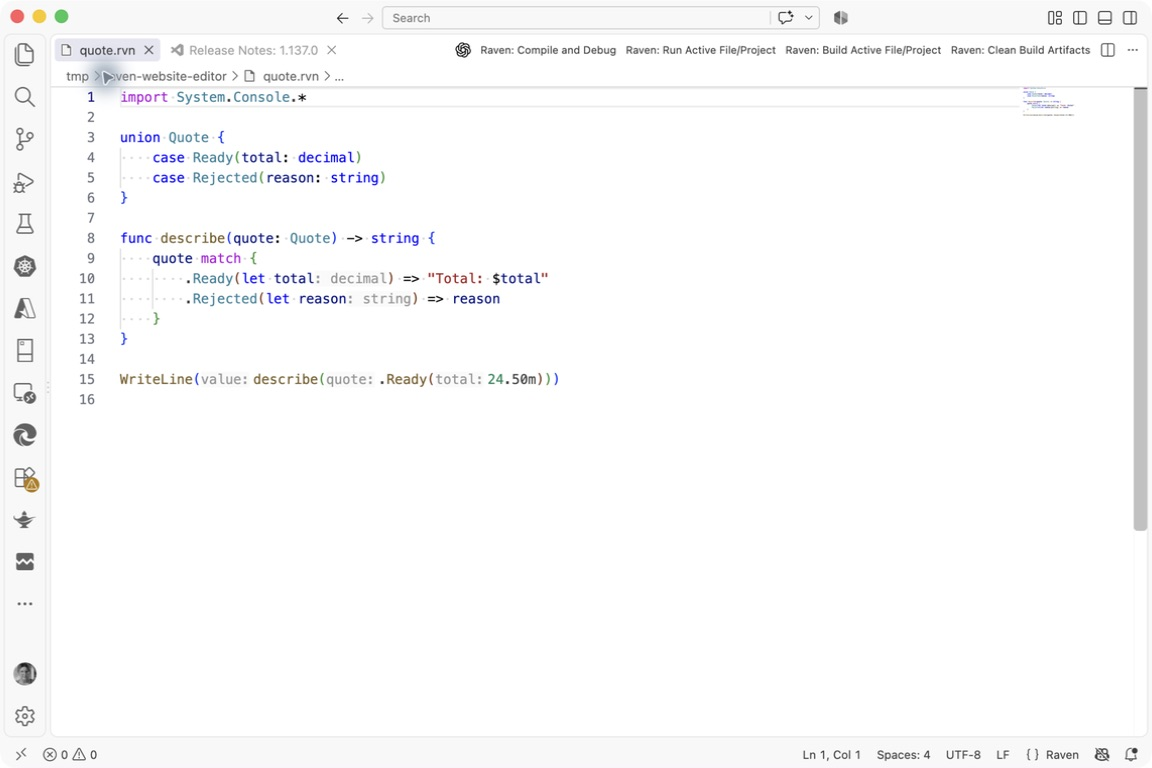
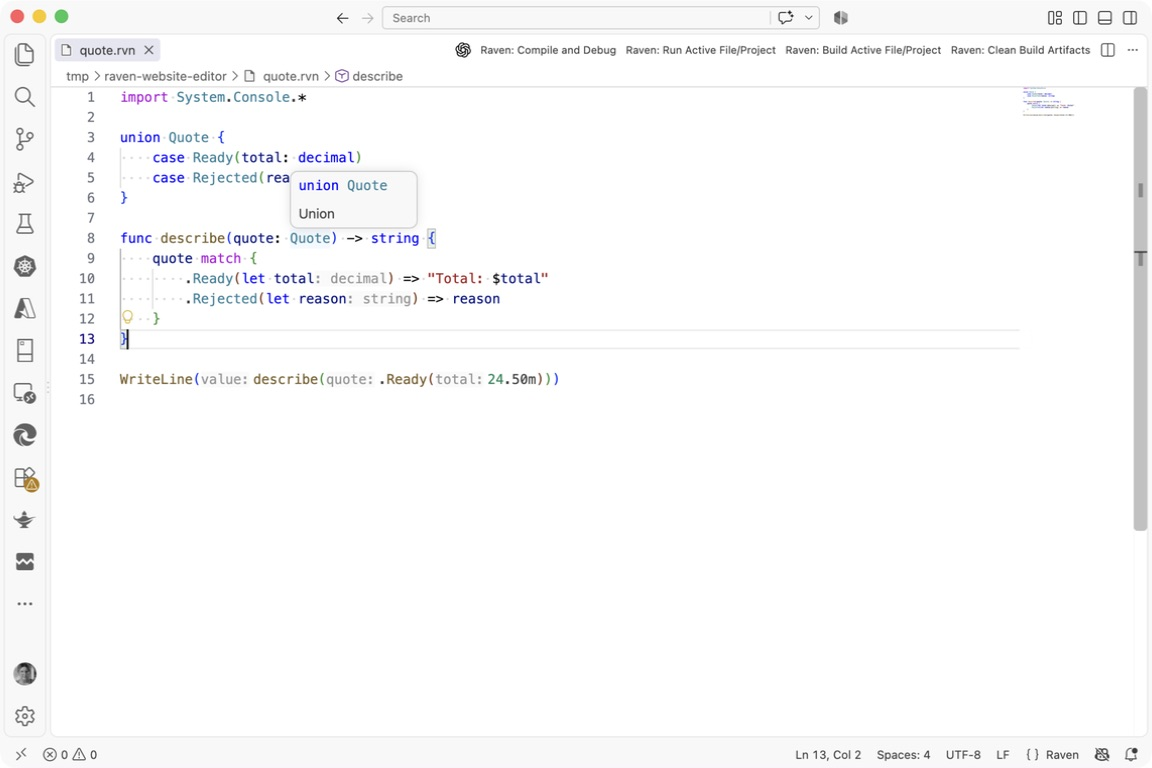
Show symbol hover in Raven editor screenshot

diff --git a/docs/index.md b/docs/index.md
@@ -58,8 +58,8 @@ title: A fresh language for .NET.
     <div><h3>Compiler services</h3><p>Work with syntax trees, symbols, and semantic models. Extend analysis with analyzers and source generators.</p><a href="compiler/index.md">Explore the tools and APIs</a></div>
   </div>
   <figure class="raven-editor-figure">
-    <a href="images/raven-vscode.png" aria-label="Open the full Raven editor screenshot"><img src="images/raven-vscode.png" alt="Raven in Visual Studio Code: a Quote union and match expression with syntax highlighting, inferred type hints, and parameter names" width="1152" height="768" loading="lazy"></a>
-    <figcaption>Raven in VS Code, with compiler-backed type and parameter hints.</figcaption>
+    <a href="images/raven-vscode.png" aria-label="Open the full Raven editor screenshot"><img src="images/raven-vscode.png" alt="Raven in Visual Studio Code: a Quote union and match expression with a symbol hover tooltip, syntax highlighting, and inferred type hints" width="1152" height="768" loading="lazy"></a>
+    <figcaption>Raven in VS Code, with symbol hover information and compiler-backed type hints.</figcaption>
   </figure>
 </section>
 
